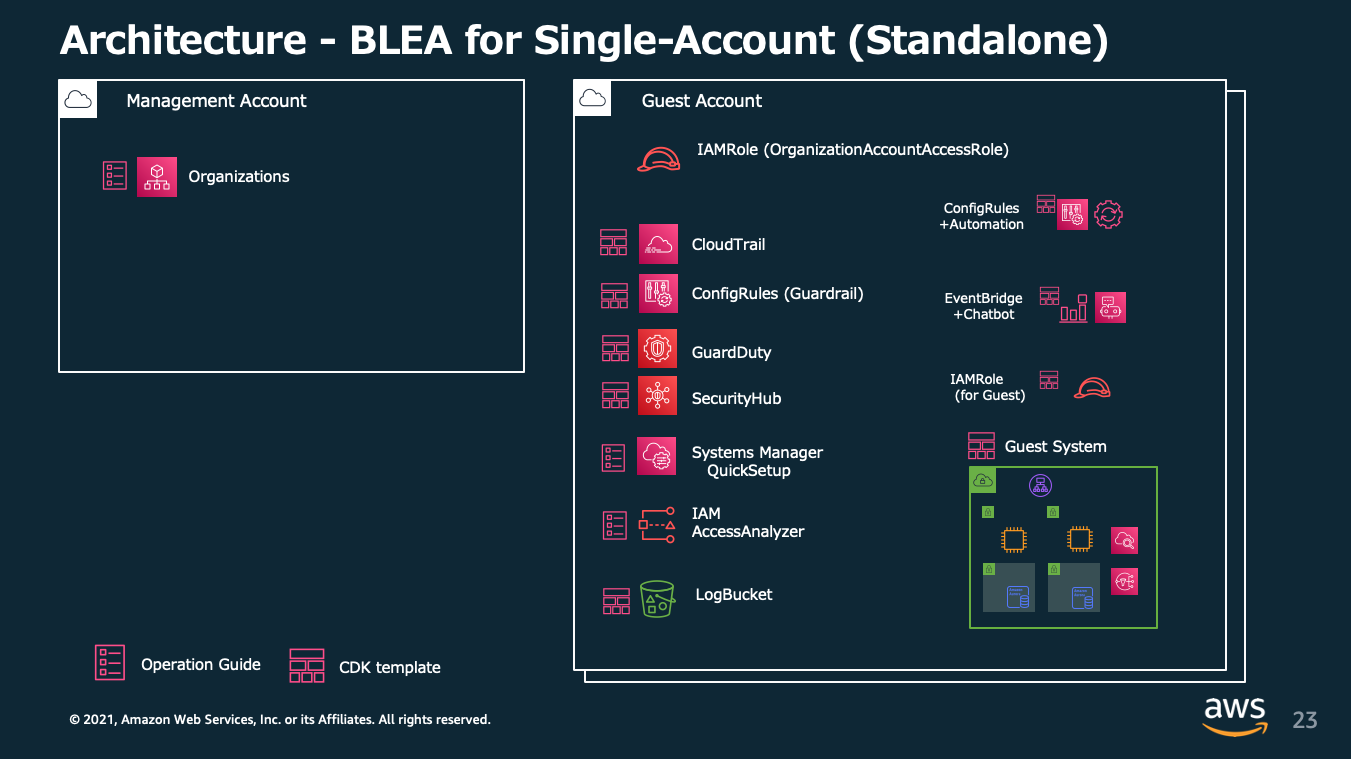
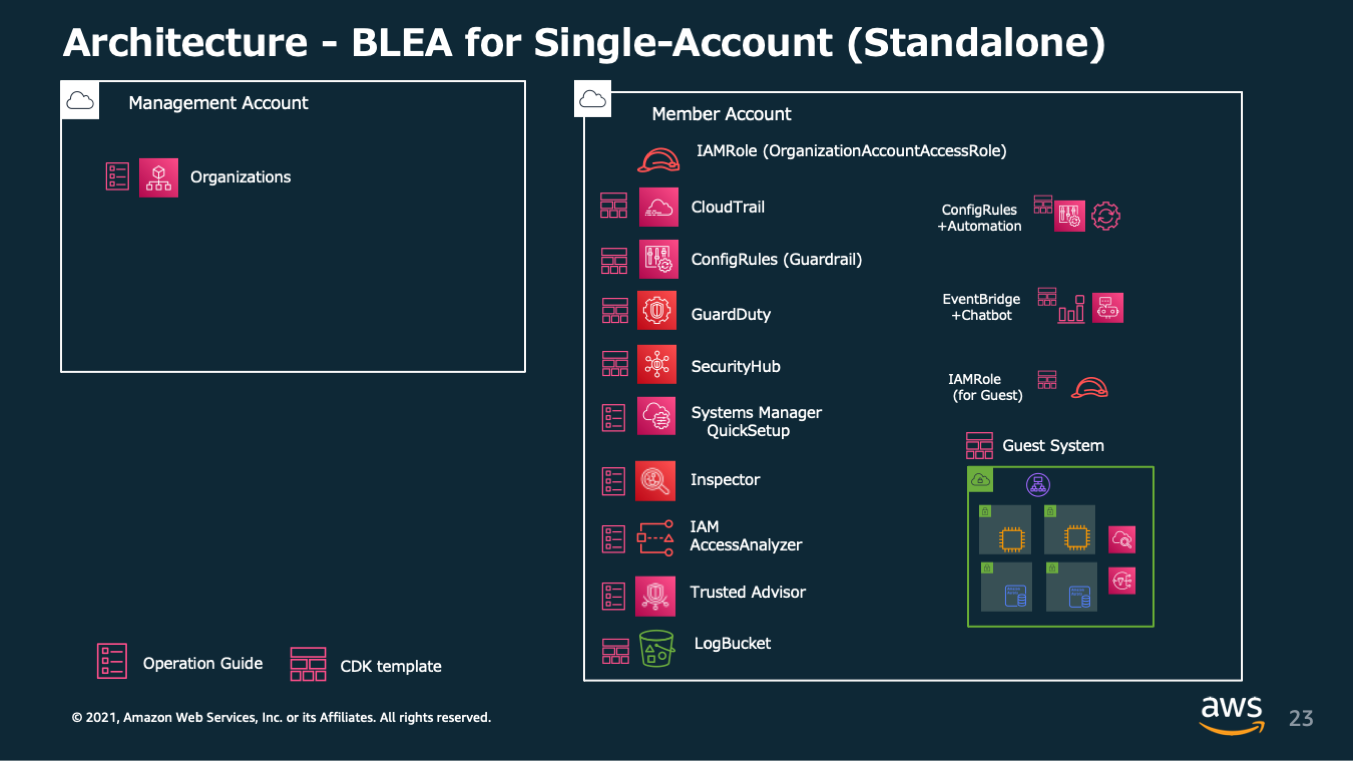
docs:enable Inspector manually
docs: enable Inspector

docs: enable Inspector

diff --git a/doc/DeployToControlTower.md b/doc/DeployToControlTower.md
@@ -47,7 +47,7 @@ This example explains how to deploy a sample application as a guest system with 
 
 By using ControlTower, some governance-based features are automatically configured. Security services that are not supported by ControlTower can be bulk-enabled for Organizations so that they are automatically configured when new accounts are created It will be.
 
-Here we set up ControlTower, SecurityHub, GuardDuty and IAM Access for the entire Organizations Provides step-by-step instructions on how to enable Analyzer. Specify the Audit account as these delegate accounts.
+Here we set up ControlTower, SecurityHub, GuardDuty, Inspector and IAM Access for the entire Organizations Provides step-by-step instructions on how to enable Analyzer. Specify the Audit account as these delegate accounts.
 
 #### 1-1. ControlTower setup
 
@@ -63,11 +63,21 @@ See: [https://docs.aws.amazon.com/controltower/latest/userguide/setting-up.html]
 
 - [https://docs.aws.amazon.com/guardduty/latest/ug/guardduty_organizations.html]
 
-#### 1-4. Setting Up the IAM Access Analyzer
+#### 1-4. Set up Amazon Inspector
+
+Designating a delegated administrator
+
+- [https://docs.aws.amazon.com/inspector/latest/user/designating-admin.html]
+
+Enabling for member accounts
+
+- [https://docs.aws.amazon.com/inspector/latest/user/adding-member-accounts.html]
+
+#### 1-5. Setting Up the IAM Access Analyzer
 
 - [https://docs.aws.amazon.com/IAM/latest/UserGuide/access-analyzer-settings.html#access-analyzer-delegated-administrator]
 
-#### 1-5. Set up Trusted Advisor
+#### 1-6. Set up Trusted Advisor
 
 - [https://docs.aws.amazon.com/awssupport/latest/user/organizational-view.html]
 
@@ -214,6 +224,10 @@ Only setting up AWS Chatbot is done in the management console, and any further w
 > NOTE:
 >
 > You don't need to set this baseline if you don't need AWS Config notifications. It does not affect the behavior of other accounts.
+
+> NOTE:
+>
+> You are not notified of the vulnerabilities detected by Amazon Inspector with Slack. You can check it on Security Hub Console.
 
 #### 5-1. Slack setup for AWS Chatbot
 
@@ -398,6 +412,7 @@ The following settings that were set up in the Standalone version are configured
 
 - API logging with CloudTrail
 - Recording configuration changes with AWS Config
+- Detecting vulnerability with Inspector
 - Detect abnormal behavior with GuardDuty
 - Detecting Deviations from Best Practices with SecurityHub (AWS Foundational Security Best Practice, CIS benchmark)
 
@@ -406,7 +421,13 @@ The following settings that were set up in the Standalone version are configured
 Besides setting up on a governance basis
 AWS provides several operational baseline services. Set up these services as needed.
 
-##### a. Perform AWS Systems Manager Quick Setup for EC2 Management
+##### a. Enabling Amazon Inspector and Detecting Vaulnerability
+
+Amazon Inspector checks workload vulnerabilities. It detects software vulnerabilities and unintended network exposure with continuous scanning EC2 and ECR. Detected vulnerabilities are prioritized and displayed based on a calculated risk score, giving you high visibility into the results. It could be automatically integrated with Security Hub and viewed the results centrally.
+
+Setup steps: [https://docs.aws.amazon.com/inspector/latest/user/getting_started_tutorial.html]
+
+##### b. Perform AWS Systems Manager Quick Setup for EC2 Management
 
 If you use EC2, we recommend that you use SystemsManager to manage it. You can use AWS Systems Manager Quick Setup to automate the basic setup required to manage EC2.
 Setup steps: [https://docs.aws.amazon.com/systems-manager/latest/userguide/quick-setup-host-management.html]
@@ -420,7 +441,7 @@ Quick Setup provides the following features:
 - Installing and configuring Amazon CloudWatch Agent for the first time only
 - Monthly automatic updates of the CloudWatch agent
 
-##### b. Trusted Advisor Detection Results Report
+##### c. Trusted Advisor Detection Results Report
 
 TrustedAdvisor provides advice for following AWS best practices. It is possible to receive the contents of the report regularly by e-mail. Please refer to the following document for details.
 

diff --git a/README_ja.md b/README_ja.md
@@ -250,7 +250,13 @@ npx cdk deploy --all -c environment=dev --profile prof_dev
 
 ガバナンスベースでセットアップする他に AWS はいくつかの運用上のベースラインサービスを提供しています。必要に応じてこれらのサービスのセットアップを行なってください。
 
-##### a. EC2 管理のため AWS Systems Manager Quick Setup を実施する
+##### a. Amazon Inspector を有効化
+
+Amazon Inspector は、ワークロードをスキャンして、脆弱性を管理します。EC2 と ECR を継続的にスキャンすることで、ソフトウェアの脆弱性や意図しないネットワークの露出を検出します。検出された脆弱性は、算出されたリスクスコアに基づき優先順位づけされて表示されるため、可視性高く結果を取得できます。また、Security Hub とは自動で統合され、一元的に検出結果を確認できます。
+
+セットアップ手順：[https://docs.aws.amazon.com/inspector/latest/user/getting_started_tutorial.html]
+
+##### b. EC2 管理のため AWS Systems Manager Quick Setup を実施する
 
 EC2 を利用する場合は SystemsManager を利用して管理することをお勧めします。AWS Systems Manager Quick Setup を使うことで、EC2 の管理に必要な基本的なセットアップを自動化できます。
 セットアップ手順: [https://docs.aws.amazon.com/systems-manager/latest/userguide/quick-setup-host-management.html]
@@ -264,7 +270,7 @@ Quick Setup は以下の機能を提供します:
 - 初回のみの、Amazon CloudWatch agent のインストールと設定
 - CloudWatch agent の月次自動アップデート
 
-##### b. Trusted Advisor の検知結果レポート
+##### c. Trusted Advisor の検知結果レポート
 
 TrustedAdvisor は AWS のベストプラクティスをフォローするためのアドバイスを提供します。レポート内容を定期的にメールで受け取ることが可能です。詳細は下記ドキュメントを参照してください。
 

diff --git a/README.md b/README.md
@@ -252,7 +252,13 @@ This will set up the following features
 
 In addition to setting up a governance base, AWS provides several operational baseline services. Set up these services as needed.
 
-##### a. Perform AWS Systems Manager Quick Setup for EC2 Management
+##### a. Enabling Amazon Inspector and Detecting Vaulnerability
+
+Amazon Inspector checks workload vulnerabilities. It detects software vulnerabilities and unintended network exposure with continuous scanning EC2 and ECR. Detected vulnerabilities are prioritized and displayed based on a calculated risk score, giving you high visibility into the results. It could be automatically integrated with Security Hub and viewed the results centrally.
+
+Setup steps: [https://docs.aws.amazon.com/inspector/latest/user/getting_started_tutorial.html]
+
+##### b. Perform AWS Systems Manager Quick Setup for EC2 Management
 
 If you use EC2, we recommend that you use SystemsManager to manage it. You can use AWS Systems Manager Quick Setup to automate the basic setup required to manage EC2.
 See: [https://docs.aws.amazon.com/systems-manager/latest/userguide/quick-setup-host-management.html]
@@ -266,7 +272,7 @@ Quick Setup provides the following features:
 - Installing and configuring Amazon CloudWatch Agent for the first time only
 - Monthly automatic updates of the CloudWatch agent
 
-##### b. Trusted Advisor Detection Results Report
+##### c. Trusted Advisor Detection Results Report
 
 TrustedAdvisor provides advice for following AWS best practices. It is possible to receive the contents of the report regularly by e-mail. Please refer to the following document for details.
 

diff --git a/doc/Standalone2ControlTower.md b/doc/Standalone2ControlTower.md
@@ -29,6 +29,10 @@ On Management account, You need to have setup Baseline Environment on AWS with M
 
    Refer: https://docs.aws.amazon.com/guardduty/latest/ug/guardduty_organizations.html
 
+5. Enable Amazon Inspector and automatically enabling new organization accounts
+
+   Refer: https://docs.aws.amazon.com/inspector/latest/user/adding-member-accounts.html
+
 # 1. Invite Target account to Management account Organizations
 
 ## 1.1. [Management Account] Invite account
